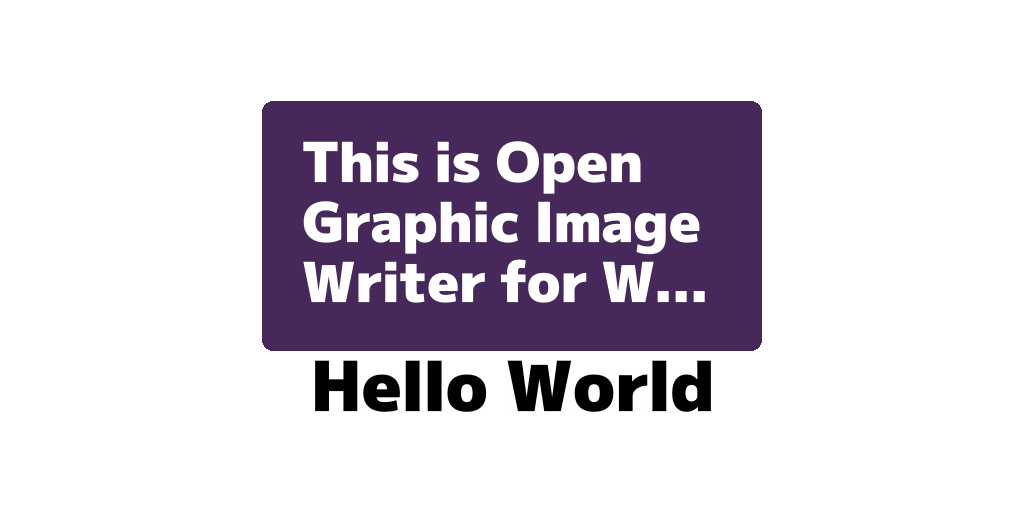
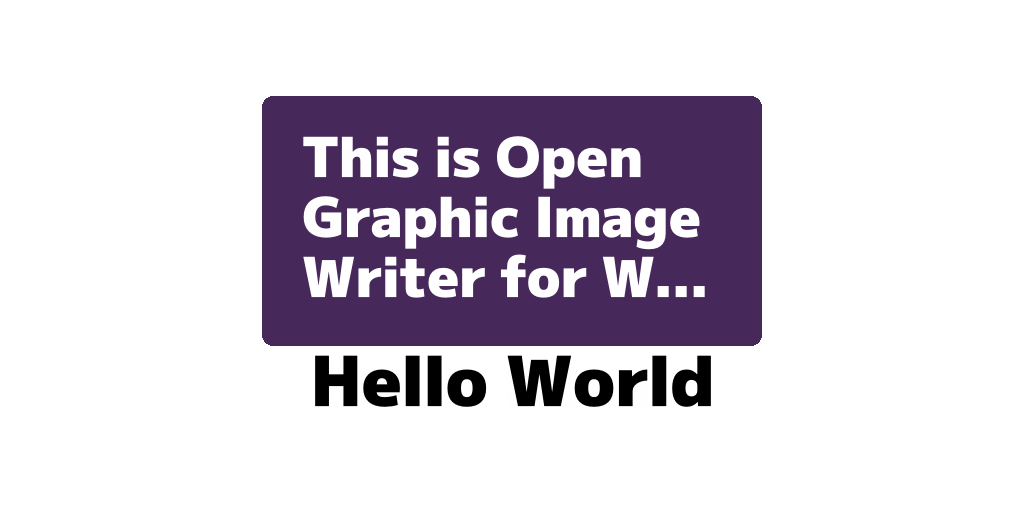
fix: img content width

Changed region(s): [[0.2812, 0.25, 0.6875, 0.5938], [0.25, 0.6562, 0.75, 0.8125], [0.25, 0.1875, 0.75, 0.2188]]

diff --git a/og_image_writer/src/layout/img.rs b/og_image_writer/src/layout/img.rs
@@ -2,20 +2,22 @@ use image::ImageError;
 
 use crate::element::{Element, Img, Rect};
 use crate::img::{open_and_resize, open_and_resize_with_data, round, ImageInfo};
-use crate::style::{FlexDirection, Style};
+use crate::style::{FlexDirection, Margin, Style};
 use crate::writer::OGImageWriter;
 use crate::Error;
 use std::str;
 
 impl<'a> OGImageWriter<'a> {
     pub(super) fn process_img(&mut self, img: Element<'a>, width: u32, height: u32) {
+        let Margin(margin_top, margin_right, margin_bottom, margin_left) = img.margin();
+
         if !img.is_absolute() {
             match self.window.flex_direction {
                 FlexDirection::Column => {
-                    self.content.height += height;
+                    self.content.height += (height as i32 + margin_top + margin_bottom) as u32;
                 }
                 FlexDirection::Row => {
-                    self.content.width += width;
+                    self.content.width += (width as i32 + margin_left + margin_right) as u32;
                 }
             }
         }

diff --git a/og_image_writer/src/element.rs b/og_image_writer/src/element.rs
@@ -1,5 +1,5 @@
 use super::layout::TextArea;
-use super::style::{Position, Style};
+use super::style::{Margin, Position, Style};
 use image::{ImageBuffer, Rgba};
 use rusttype::Font;
 use std::ops::Range;
@@ -16,6 +16,14 @@ impl<'a> Element<'a> {
             Element::Img(Some(img)) => matches!(img.style.position, Position::Absolute),
             Element::Text(Some(text)) => matches!(text.style.position, Position::Absolute),
             _ => false,
+        }
+    }
+
+    pub(super) fn margin(&self) -> Margin {
+        match self {
+            Element::Img(Some(img)) => img.style.margin.clone(),
+            Element::Text(Some(text)) => text.style.margin.clone(),
+            _ => Margin::default(),
         }
     }
 }

diff --git a/og_image_writer/src/style.rs b/og_image_writer/src/style.rs
@@ -6,7 +6,7 @@ pub enum WordBreak {
     BreakAll,
 }
 
-#[derive(Debug, Default)]
+#[derive(Debug, Default, Clone)]
 pub struct Margin(pub i32, pub i32, pub i32, pub i32);
 
 #[derive(Debug, Default, Clone)]
